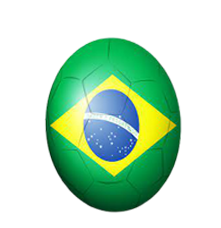
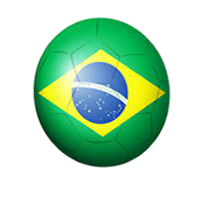
few changes

diff --git a/css/style.css b/css/style.css
@@ -2,6 +2,7 @@
 @import url('https://fonts.googleapis.com/css2?family=Poppins:wght@500&display=swap');
 
 body{
+    background-color:wheat;
     font-family: 'Poppins', sans-serif;
     margin: 0 auto;
     width: 100%;
@@ -14,7 +15,6 @@ body{
     padding: 40px;
 }
 .top-header{
-    border: 1px solid;
     margin-bottom: 40px;
 }
 .nav-area{
@@ -178,14 +178,16 @@ h2{
 .country{
     display: flex;
     justify-content: center;
-    flex-direction: row;
 }
 .country img{ 
     width: 110px;
     height: 90px;
-    padding: 25px;
+    padding: 5px 35px;
+    margin-top: 10px;
 }
 .score{
+    height: 100px;
+    padding: 20px 0;
     display: flex;
     align-items: center;
     flex-direction: column;
@@ -202,9 +204,10 @@ span{
 }
 .btn-clr{
     background-color:crimson;
+    font-size: 30px;
     color: white;
-    padding: 12px;
-    border-radius: 30%;
+    padding: 15px;
+    border-radius: 50px;
 }
 
 /*==============================================
@@ -237,14 +240,15 @@ span{
    Footer Area
 ===============================================*/
 .informative-area{
-    background-color: grey;
+    height: 230px;
+    background-color:darkgrey;
     display: flex;
     justify-content: center;
+    align-items: center;
 }
 .static-area{
-    width: 620px;
-    height: 200px;
     text-align: center;
+    padding: 5px 0;
 }
 .logo img{
     margin-top: 15px;
@@ -252,12 +256,12 @@ span{
     width: 350px;
 }
 .icons a{
+    padding: 0 10px;
     color: #2d25a0;
     font-size: 30px;
     font-weight: 900;
 }
 .icons a i{
-    padding-right: 10px;
     border-radius: 50%;
     transition: .7s;
 }
@@ -267,116 +271,11 @@ span{
 }
 .copyright p{
     font-size: 12px;
-    margin-top: 25px;
+    margin-top: 15px;
 }
-/*==============================================
-    Media Query
-===============================================*/
 
-/* Mobile device only */
 
-@media screen and (max-width:688px){
+/* Media Query */
 
-    /* navigation area */
-    .main-header-area{
-        width: 100%;
-        display: flex;
-        justify-content: space-around;
-        flex-direction: column;
-    }
-    .top-header{
-        width: 100%;
-        display: grid;
-        grid-template-columns: repeat(1, 1fr);
-        flex-direction: column;
-    }
-    .menu ul{
-        width: 100%;
-        display: grid;
-        grid-template-columns: repeat(1, 1fr);
-        flex-direction: column;
-        
-    }
+/* Mobile Responsive */
 
-    /* banner-area */
-    .banner-area{
-        width: 100%;
-        flex-direction: column;
-        display: flex;
-        align-items: center;
-    }
-    .highlights-area{
-        width: 100%;
-       display: grid;
-       grid-template-columns: repeat(1, 1fr);
-       flex-direction: column;
-    }
-    .main-area{
-        background-color: #dc081e;
-    }
-    h1{
-        font-size: 40px;
-        font-weight: 700;
-        color: cornsilk;
-    }
-    .target-btn{
-        height: 35px;
-        width: 150px;
-    }
-    /* content area */
-    .content-area{
-        width: 100%;
-        padding: 30px 50px;
-        margin: 30px;
-    }
-    .players{
-        display: grid;
-        grid-template-columns: repeat(1, 1fr);
-        grid-column-gap: 10px;
-    }
-    /* hightlights area */
-    h2{
-        font-size: 30px;
-    }
-     /* special area */
-     .special{
-        background-color: greenyellow;
-        width: 100%;
-    }
-}
-/* Tablet device only */
-
-@media only screen and (min-width: 688px) and (max-width: 992px){
-    /* navigation area */
-    .nav-area{
-        width: 100%;
-        display: flex;
-        justify-content: space-between;
-        flex-direction: row;
-    }
-    .nav-area ul{
-        display: flex;
-        align-items: flex-start;
-        flex-direction: row;
-    }
-
-    /* banner-area */
-    .banner-area, .highlights-area{
-        width: 100%;
-        flex-direction: column;
-        display: flex;
-        align-items: center;
-        background-color: yellow;
-    }
-    /* content area */
-    .content-area{
-        background-color: yellow;
-        padding: 60px 100px;
-        margin: 50px;
-    }
-    .players{
-        display: grid;
-        grid-template-columns: repeat(2, 1fr);
-        grid-column-gap: 20px;
-    }
-}

diff --git a/index.html b/index.html
@@ -8,6 +8,8 @@
     <title>Football Frenzy Blogger</title>
     <script src="https://kit.fontawesome.com/c7c51c5c19.js" crossorigin="anonymous"></script>
     <link rel="stylesheet" href="css/style.css">
+    <link rel="stylesheet" href="css/mob-responsive.css">
+    <link rel="stylesheet" href="css/tab-responsive.css">
 </head>
 
 <body>
@@ -182,12 +184,14 @@
     <!-----------*************-------------
         Sarch-Area
     -------------*************------------>
-    <div class="search-area">
-        <form action="">
-            <input type="text" placeholder="Search Here">
-            <input type="submit" value="">
-        </form>
-    </div>
+    <section>
+        <div class="search-area">
+            <form action="">
+                <input type="text" placeholder="Search Here">
+                <input type="submit" value="">
+            </form>
+        </div>
+    </section>
 
     <!-----------*************-------------
         Special-Area
@@ -204,8 +208,11 @@
             <img src="images/brazil1.png" alt="">
         </div>
         <div class="score">
-            <h2 class="red"> 1 - 0</h2>
-            <h3 class="btn-clr">SEE MORE</h3>
+            <span class="red"> 1 - 0</span>
+            <br>
+            <br>
+            <br>
+            <span class="btn-clr">SEE MORE</span>
         </div>
 
     </section>
@@ -227,7 +234,7 @@
                 </ul>
             </div>
             <div class="copyright">
-                <p>Copyright © 2022 football- All Rights Reserved by Arpita Banik</p>
+                <p>Copyright © 2022 football-All Rights Reserved by deyarpitabanik@gmail.com</p>
             </div>
         </div>
         <!-- <button class="btn">

diff --git a/css/mob-responsive.css b/css/mob-responsive.css
@@ -1,0 +1,15 @@
+/* Media Query */
+
+/* Mobile Responsive */
+@media screen and (max-width:688px) {
+    .top-header,.content-area,.highlights-area, .search-area, .special, .informative-area{
+        display: none;
+    }
+    .banner-area{ 
+        overflow-x: hidden;
+        width: 100%;
+        height: 100%;
+        /* grid-template-columns: repeat(1, fr); */
+        flex-direction: column;
+    }
+}
